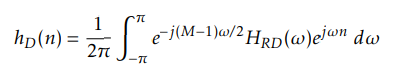
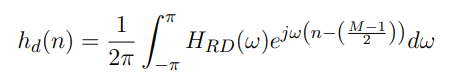
backup

Changed region(s): [[0.0303, 0.1644, 0.9697, 0.8767], [0.2424, 0.1918, 0.2727, 0.411]]

diff --git a/source/_posts/2022-2023/Discrete-Time-Signals.md b/source/_posts/2022-2023/Discrete-Time-Signals.md
@@ -144,9 +144,11 @@ for Frequency response characteristics,
 
 ![606.png](606.png)
 
+For a low-pass filter design, a symmetric response is required as an anti-symmetric filter places a zero at z = 1. For a high-pass design, a symmetric or an antisymmetric impulse response can be used provided that M is chosen such that a zero is not placed at z = −1.
+
 For design a desired filter response, HRD(ω) defines the idealised filter. The idealised filter will either be symmetric, or antisymmetric (HRD(ω) = ±HRD(−ω))
 To make the final filter of length M causal, a delay of (M−1)/2 samples is required.
-![607.png](607.png) (?)
+![607.png](607.png)
 
 ![608.png](608.png)
 For a low-pass filter design, a symmetric response is required as an anti-symmetric filter places a zero at z = 1. For a high-pass design, a symmetric or an antisymmetric impulse response can be used provided that M is chosen such that a zero is not placed at z = −1.
@@ -163,3 +165,15 @@ The transition bandwidth is: (transition_frequency/sampling_frequency)*2pi
 which can get the number of filter taps
 
 if calculated tap number is larger than designed number, then the calculated number can be seen as more complex
+
+For Naïve approach:
+The impulse response is based on DFT equation
+![610.png](610.png)
+![611.png](611.png)
+usually, the frequency repsonse when α = 0 has lower passband ripple but higher stopband ripple,
+the frequency response when α = 0.5 has higher passband ripple but lower stopband ripple.
+it should be careful to choose which filter is much better
+
+example:
+![612.png](612.png)
+
